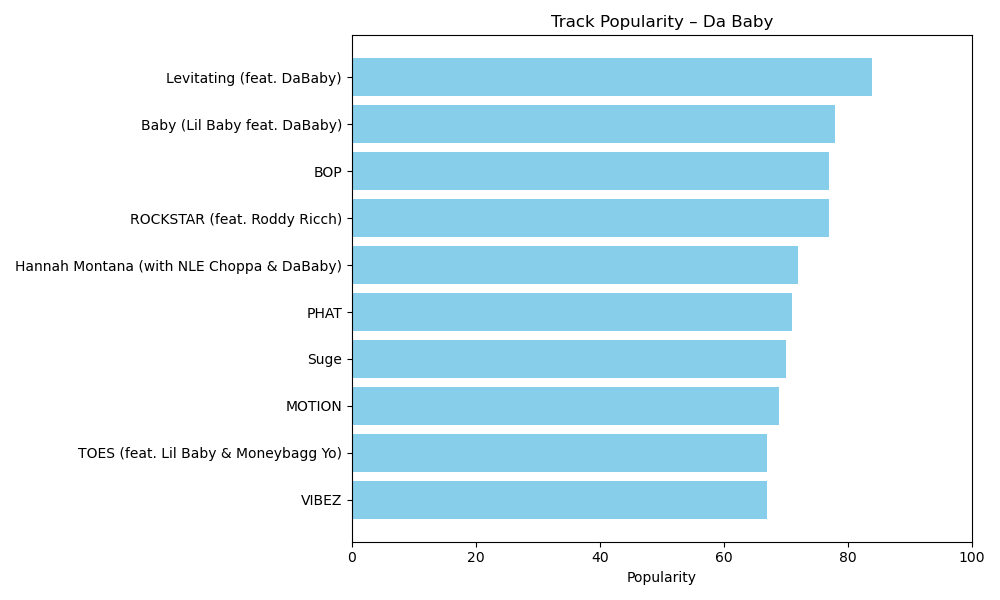
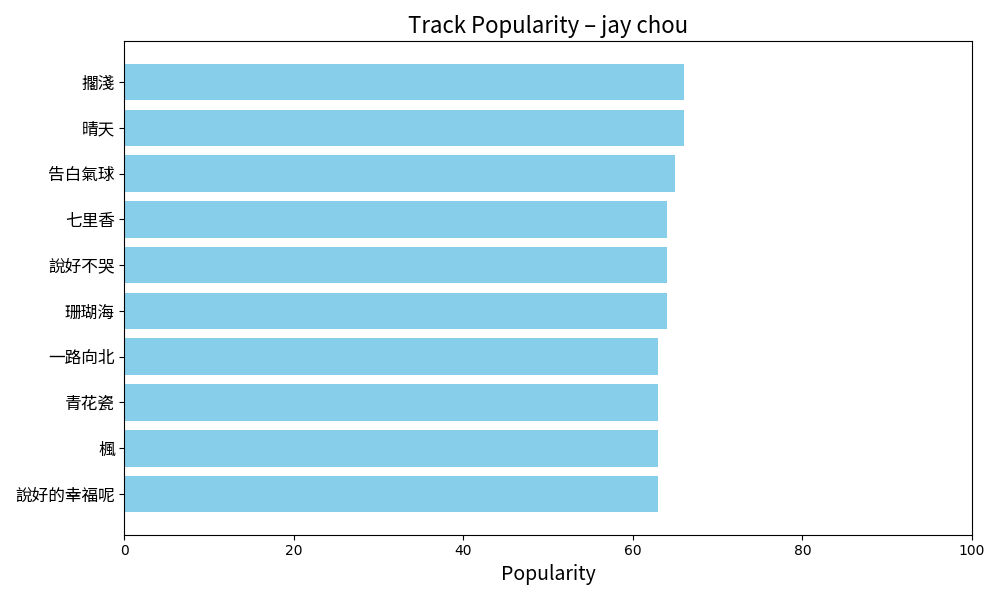
Quaesitatum. Sublatum. Renovatum.
安装简体汉字

别让工具生锈

diff --git a/code/utils/visualize.py b/code/utils/visualize.py
@@ -3,13 +3,36 @@ matplotlib.use("Agg")  # Use the Agg backend for non-GUI rendering
 import matplotlib.pyplot as plt
 import os
 
+font_path = "NotoSansSC-Regular.otf"
+
+current_dir = os.path.dirname(__file__)
+font_path = os.path.join(current_dir, "../static/fonts/NotoSansSC-Regular.ttf")
+
+from matplotlib import font_manager
+
+font_prop = font_manager.FontProperties(fname=font_path)
+plt.rcParams["font.family"] = font_prop.get_name()
+
+matplotlib.rcParams['axes.unicode_minus'] = False
+
+
 def plot_popularity_bar(df, artist_name):
     sorted_df = df.sort_values("popularity", ascending=True)
     plt.figure(figsize=(10, 6))
-    plt.barh(sorted_df["track_name"], sorted_df["popularity"], color="skyblue")
-    plt.title(f"Track Popularity – {artist_name}")
-    plt.xlabel("Popularity")
+
+    plt.barh(
+        sorted_df["track_name"],
+        sorted_df["popularity"],
+        color="skyblue"
+    )
+
+    plt.title(f"Track Popularity – {artist_name}", fontproperties=font_prop, fontsize=16)
+    plt.xlabel("Popularity", fontproperties=font_prop, fontsize=14)
     plt.xlim(0, 100)
+
+    ax = plt.gca()
+    ax.set_yticklabels(sorted_df["track_name"], fontproperties=font_prop, fontsize=12)
+
     plt.tight_layout()
 
     # Create the static folder inside the code directory if it doesn't exist
